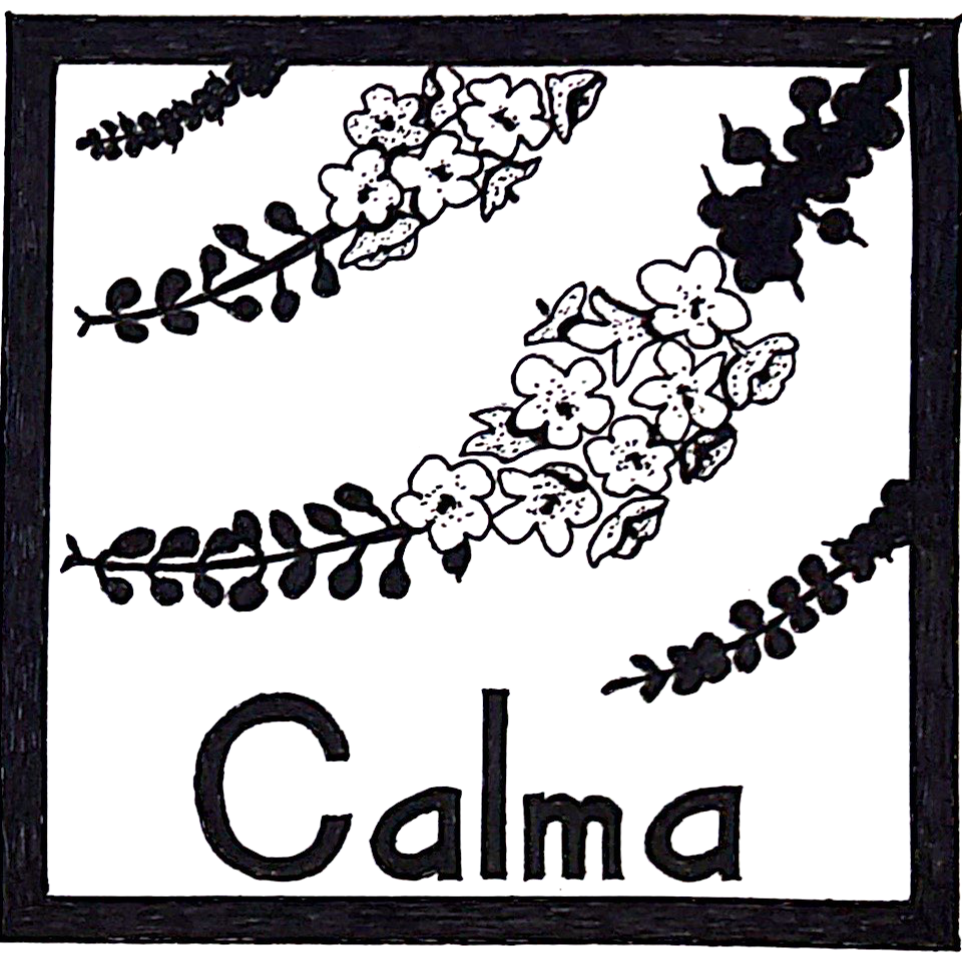
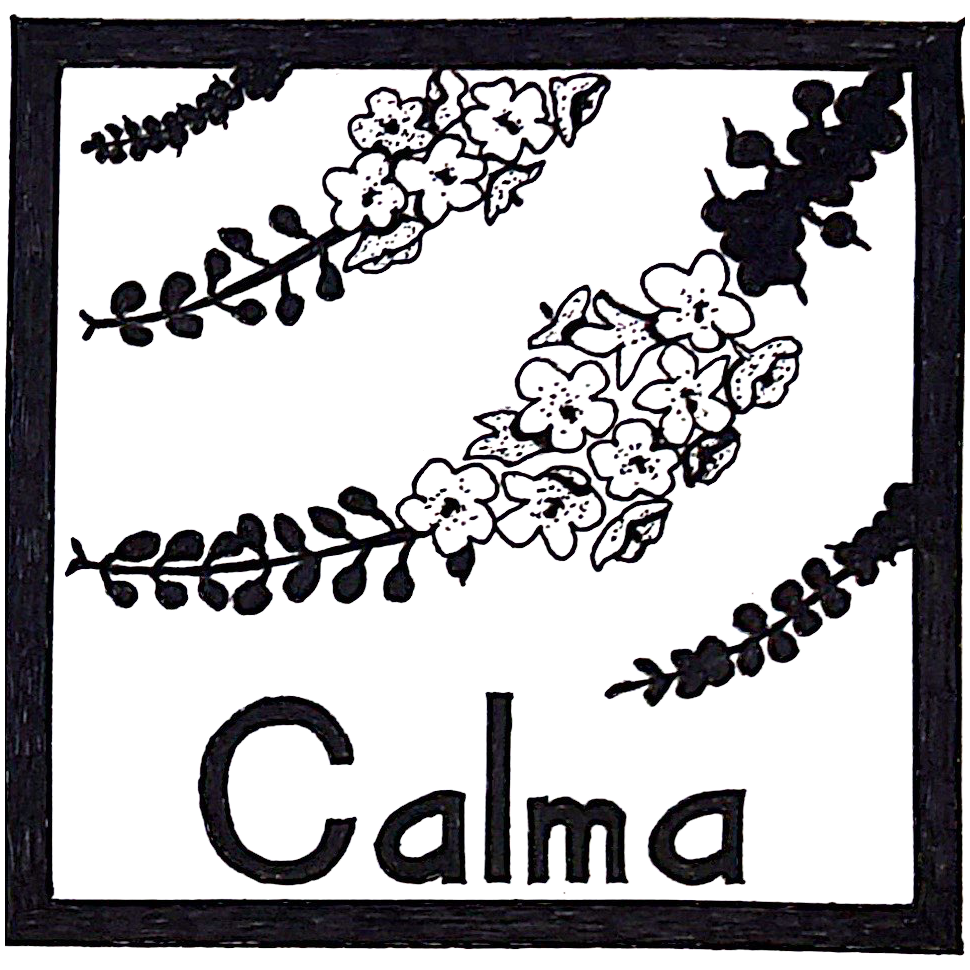
コピーライト修正 シーズンボード春更新

diff --git a/illust/season/harmony.html b/illust/season/harmony.html
@@ -18,20 +18,26 @@
 </head>
 <body id="season-body">
 <div id="main-season">
-<div class="content">
-<div class="contentimg">
-<div class="title-season"><img src="images/winter.png" alt="winter" title="winter" class="season-title"></div>
-<div class="hoshisayu">
-<div class="hoshisayuimg">
-<img src="images/season-hoshisayu.png" alt="囁くの　黒き眼に　星冴ゆと" title="囁くの　黒き眼に　星冴ゆと" class="seasonboard"/>
+<div class="content-harmony">
+<div class="contentimg-harmony">
+<div class="title-season"><img src="images/spring.png" alt="spring" title="spring" class="season-title"></div>
+<div class="harmony">
+<div class="harmonyimg">
+<img src="images/season-harmony.png" alt="春雨の　草葉の陰の　ハーモニー" title="春雨の　草葉の陰の　ハーモニー" class="seasonboard"/>
 </div>
 </div>
-<p class="text">君と並んで歩いていた。</br>
-ランプの灯りがぼんやり道を照らしている。</br>
-ねえ、灯りを消してみようか</p>
-<p class="text-english">I was walking alongside you.</br>
-A lamp dimly lights the road.</br>
-Shall we turn off the light?</p>
+<p class="text">止まり木の先にいる君へ</br>
+誰よりも美しい歌声を</br>
+他は何もない世界</p>
+<p class="text-english">To you,</br>
+resting on the perch,</br>
+</br>
+offered—</br>
+a song</br>
+more beautiful than any other.</br>
+</br>
+In a world</br>
+with nothing else.</p>
 <div class="pagetop">
   <a href="../../index.html" class="nav-m bt-home" aria-label="home"></a>
 </div>

diff --git a/index.html b/index.html
@@ -88,7 +88,7 @@ Draw a line. Create a space. Again.</span></p>
 <div class="seasonboard"><img src="illust/season/images/seasonborad.png" class="seasonboard">
 <div class="season">
 <div class="seasonimg">
-<a href="illust/season/hoshisayu.html"><img src="illust/season/images/season-hoshisayu.png"  alt="囁くの　黒き眼に　星冴ゆと" title="囁くの　黒き眼に　星冴ゆと" class="season"></a>
+<a href="illust/season/harmony.html"><img src="illust/season/images/season-harmony.png"  alt="春雨の　草葉の陰の　ハーモニー" title="春雨の　草葉の陰の　ハーモニー" class="season"></a>
 </div>
 </div>
 </div>
@@ -119,7 +119,7 @@ I face questions. But I do not answer them. The world is there.</span></p>
 <div class="profilearea"><a href="profile.html" aria-label="profile" class="profile"></a></div>
 </div>
 </div>
-<div class="footer">© 2025 malenia All Rights Reserved.</div>
+<div class="footer">© 2026 malenia All Rights Reserved.</div>
 </div>
 </body>
 </html>

diff --git a/illust/index.html b/illust/index.html
@@ -28,10 +28,10 @@
 <div class="content">
 <div class="contentimg">
 
-  <div class="seasonboard"><img src="season/images/seasonborad.png" class="seasonboard">
-<div class="season">
-<div class="seasonimg">
-<a href="season/hoshisayu.html"><img src="season/images/season-hoshisayu.png"  alt="囁くの　黒き眼に　星冴ゆと" title="囁くの　黒き眼に　星冴ゆと" class="season"></a>
+  <div class="seasonboard-harmony"><img src="season/images/seasonborad.png" class="seasonboard">
+<div class="season-harmony">
+<div class="seasonimg-harmony">
+<a href="season/harmony.html"><img src="season/images/season-harmony.png"  alt="春雨の　草葉の陰の　ハーモニー" title="春雨の　草葉の陰の　ハーモニー" class="season"></a>
 </div>
 </div>
 </div>
@@ -68,7 +68,7 @@
 </div>
 </div>
 </div>
-<div class="footer">© 2025 malenia All Rights Reserved.</div>
+<div class="footer">© 2026 malenia All Rights Reserved.</div>
 </div>
 </body>
 </html>

diff --git a/illust/season/css/season.css b/illust/season/css/season.css
@@ -48,7 +48,39 @@ div.hoshisayuimg{
  width: 100%;
 }
 
-img.seasonboard{width: 100%;}
+div.content-harmony{
+background-color: #d0d5ca;
+}
+
+div.contentimg-harmony{
+ margin:0px auto;
+ background-image: url(../images/bg-harmony.png);
+ background-repeat:repeat;
+ background-size:21%;
+ background-position:0px 0;
+ padding: 0;
+ border: none;
+ width: 100%;
+}
+
+div.harmony{
+background-color: #b3dacc;
+background-image: linear-gradient(#d0d5ca,#cfdbd9 50%, #d0d5ca);
+
+}
+
+div.harmonyimg{
+ margin:0px auto;
+ background-image: url(../images/bg-harmony2.png);
+ background-repeat:repeat;
+ background-position: left top;
+ background-size:10%;
+ padding: 40px 0;
+ border: none;
+ width: 100%;
+}
+
+img.seasonboard{width: 98%;}
 
 p.text {
    color:#000000;

diff --git a/illust/css/illust.css b/illust/css/illust.css
@@ -62,6 +62,26 @@ div.seasonimg{
  padding: 20px;
 }
 
+div.seasonboard-harmony {background:rgba(120, 126, 114, 0.3);
+margin:30px auto 80px;
+padding: 10px 20px 20px;
+width: 88%;}
+
+ div.season-harmony{
+  background-color: #b3dacc;
+  background-image: linear-gradient(#d0d5ca,#cfdbd9 50%, #d0d5ca);
+  margin:0 auto;
+  width: 100%;
+  }
+  div.seasonimg-harmony{
+ background-image: url(../season/images/bg-harmony.png);
+ background-repeat:repeat;
+ background-size:10%;
+ background-position:0px 0;
+ padding: 20px;
+}
+
+
 img.season{width:90%;
 margin:0 auto;}
 
@@ -136,6 +156,12 @@ h1 {
  }
 
 div.seasonboard {
+margin:30px auto;
+width:86%;
+padding:8px;
+}
+
+div.seasonboard-harmony {
 margin:30px auto;
 width:86%;
 padding:8px;

diff --git a/css/top.css b/css/top.css
@@ -68,7 +68,7 @@ div.profileimg{
  padding: 50px 20px 0px;
 }
 
-div.seasonboard {background:rgba(119, 142, 147, 0.3);
+div.seasonboard {background:rgba(120, 126, 114, 0.3);
 margin:30px 0 80px;
 padding: 10px 20px 20px;}
 
@@ -77,12 +77,12 @@ margin: 0px auto 10px;}
 
 
 div.season{
-    background-color: #b1d9dc;
-    background-image: linear-gradient(#a2bdc6, #d3e5ed 50%, #a2bdc6);
+    background-color: #b3dacc;
+    background-image: linear-gradient(#d0d5ca,#cfdbd9 50%, #d0d5ca);
     margin:0 auto;
   }
 div.seasonimg{
- background-image: url(../illust/season/images/bg-season.png);
+ background-image: url(../illust/season/images/bg-harmony.png);
  background-repeat:repeat;
  background-size:10%;
  background-position:0px 0;

diff --git a/illust/maristia/serica.html b/illust/maristia/serica.html
@@ -35,7 +35,7 @@
   <a href="../../haiku/index.html" class="nav-m bt-haiku" aria-label="haiku"></a>
 </div></div>
 </div>
-<div class="footer">© 2025 malenia All Rights Reserved.</div>
+<div class="footer">© 2026 malenia All Rights Reserved.</div>
 </div>
 </body>
 </html>

diff --git a/profile.html b/profile.html
@@ -45,7 +45,7 @@ x：<a href="https://x.com/malenia0225/" class="sns-text">https://x.com/malenia0
 </div>
 </div>
 </div>
-<div class="footer">© 2025 malenia All Rights Reserved.</div>
+<div class="footer">© 2026 malenia All Rights Reserved.</div>
 </div>
 </body>
 </html>

diff --git a/haiku/index.html b/haiku/index.html
@@ -618,7 +618,7 @@
 </div>
 </div>
 </div>
-<div class="footer">© 2025 malenia All Rights Reserved.</div>
+<div class="footer">© 2026 malenia All Rights Reserved.</div>
 </div>
 <script src="js/haiku.js"></script>
 </body>

diff --git a/poem/index.html b/poem/index.html
@@ -219,7 +219,7 @@ I'm in your belly.</p>
 </div>
 </div>
 </div>
-<div class="footer">© 2025 malenia All Rights Reserved.</div>
+<div class="footer">© 2026 malenia All Rights Reserved.</div>
 </div>
 </body>
 </html>

diff --git a/illust/maristia/alas.html b/illust/maristia/alas.html
@@ -36,7 +36,7 @@
 </div>
 </div>
 </div>
-<div class="footer">© 2025 malenia All Rights Reserved.</div>
+<div class="footer">© 2026 malenia All Rights Reserved.</div>
 </div>
 </body>
 </html>

diff --git a/illust/maristia/alu.html b/illust/maristia/alu.html
@@ -36,7 +36,7 @@
 </div>
 </div>
 </div>
-<div class="footer">© 2025 malenia All Rights Reserved.</div>
+<div class="footer">© 2026 malenia All Rights Reserved.</div>
 </div>
 </body>
 </html>
